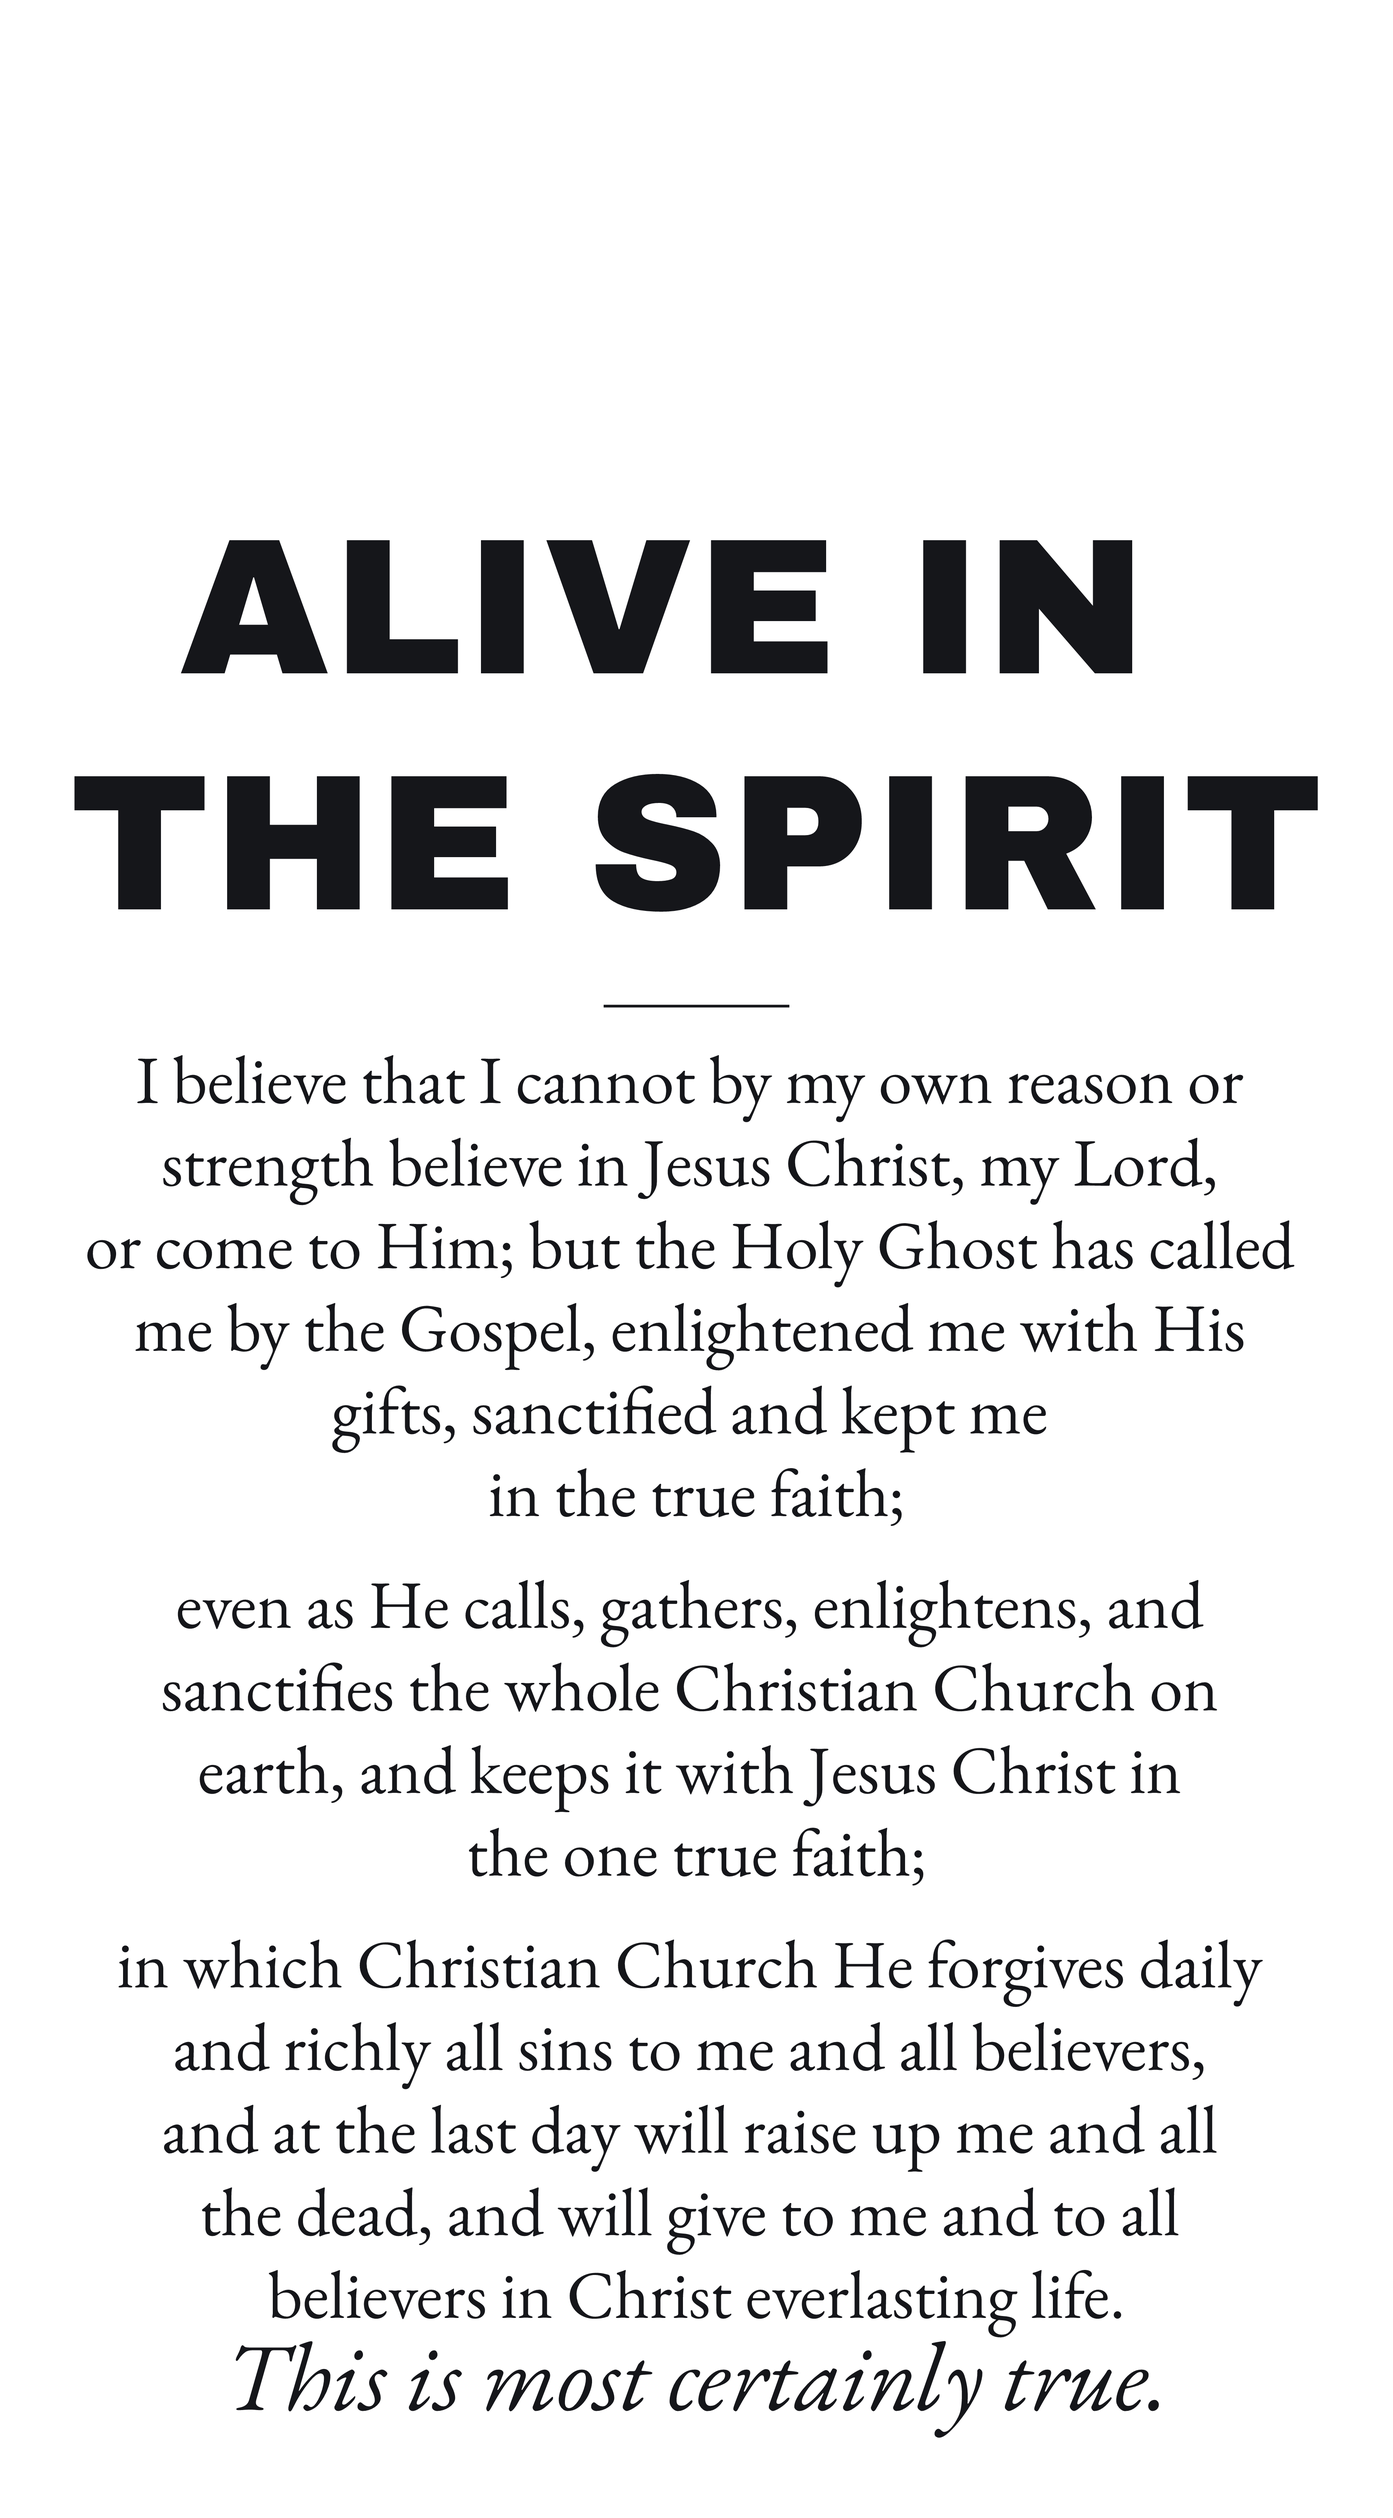
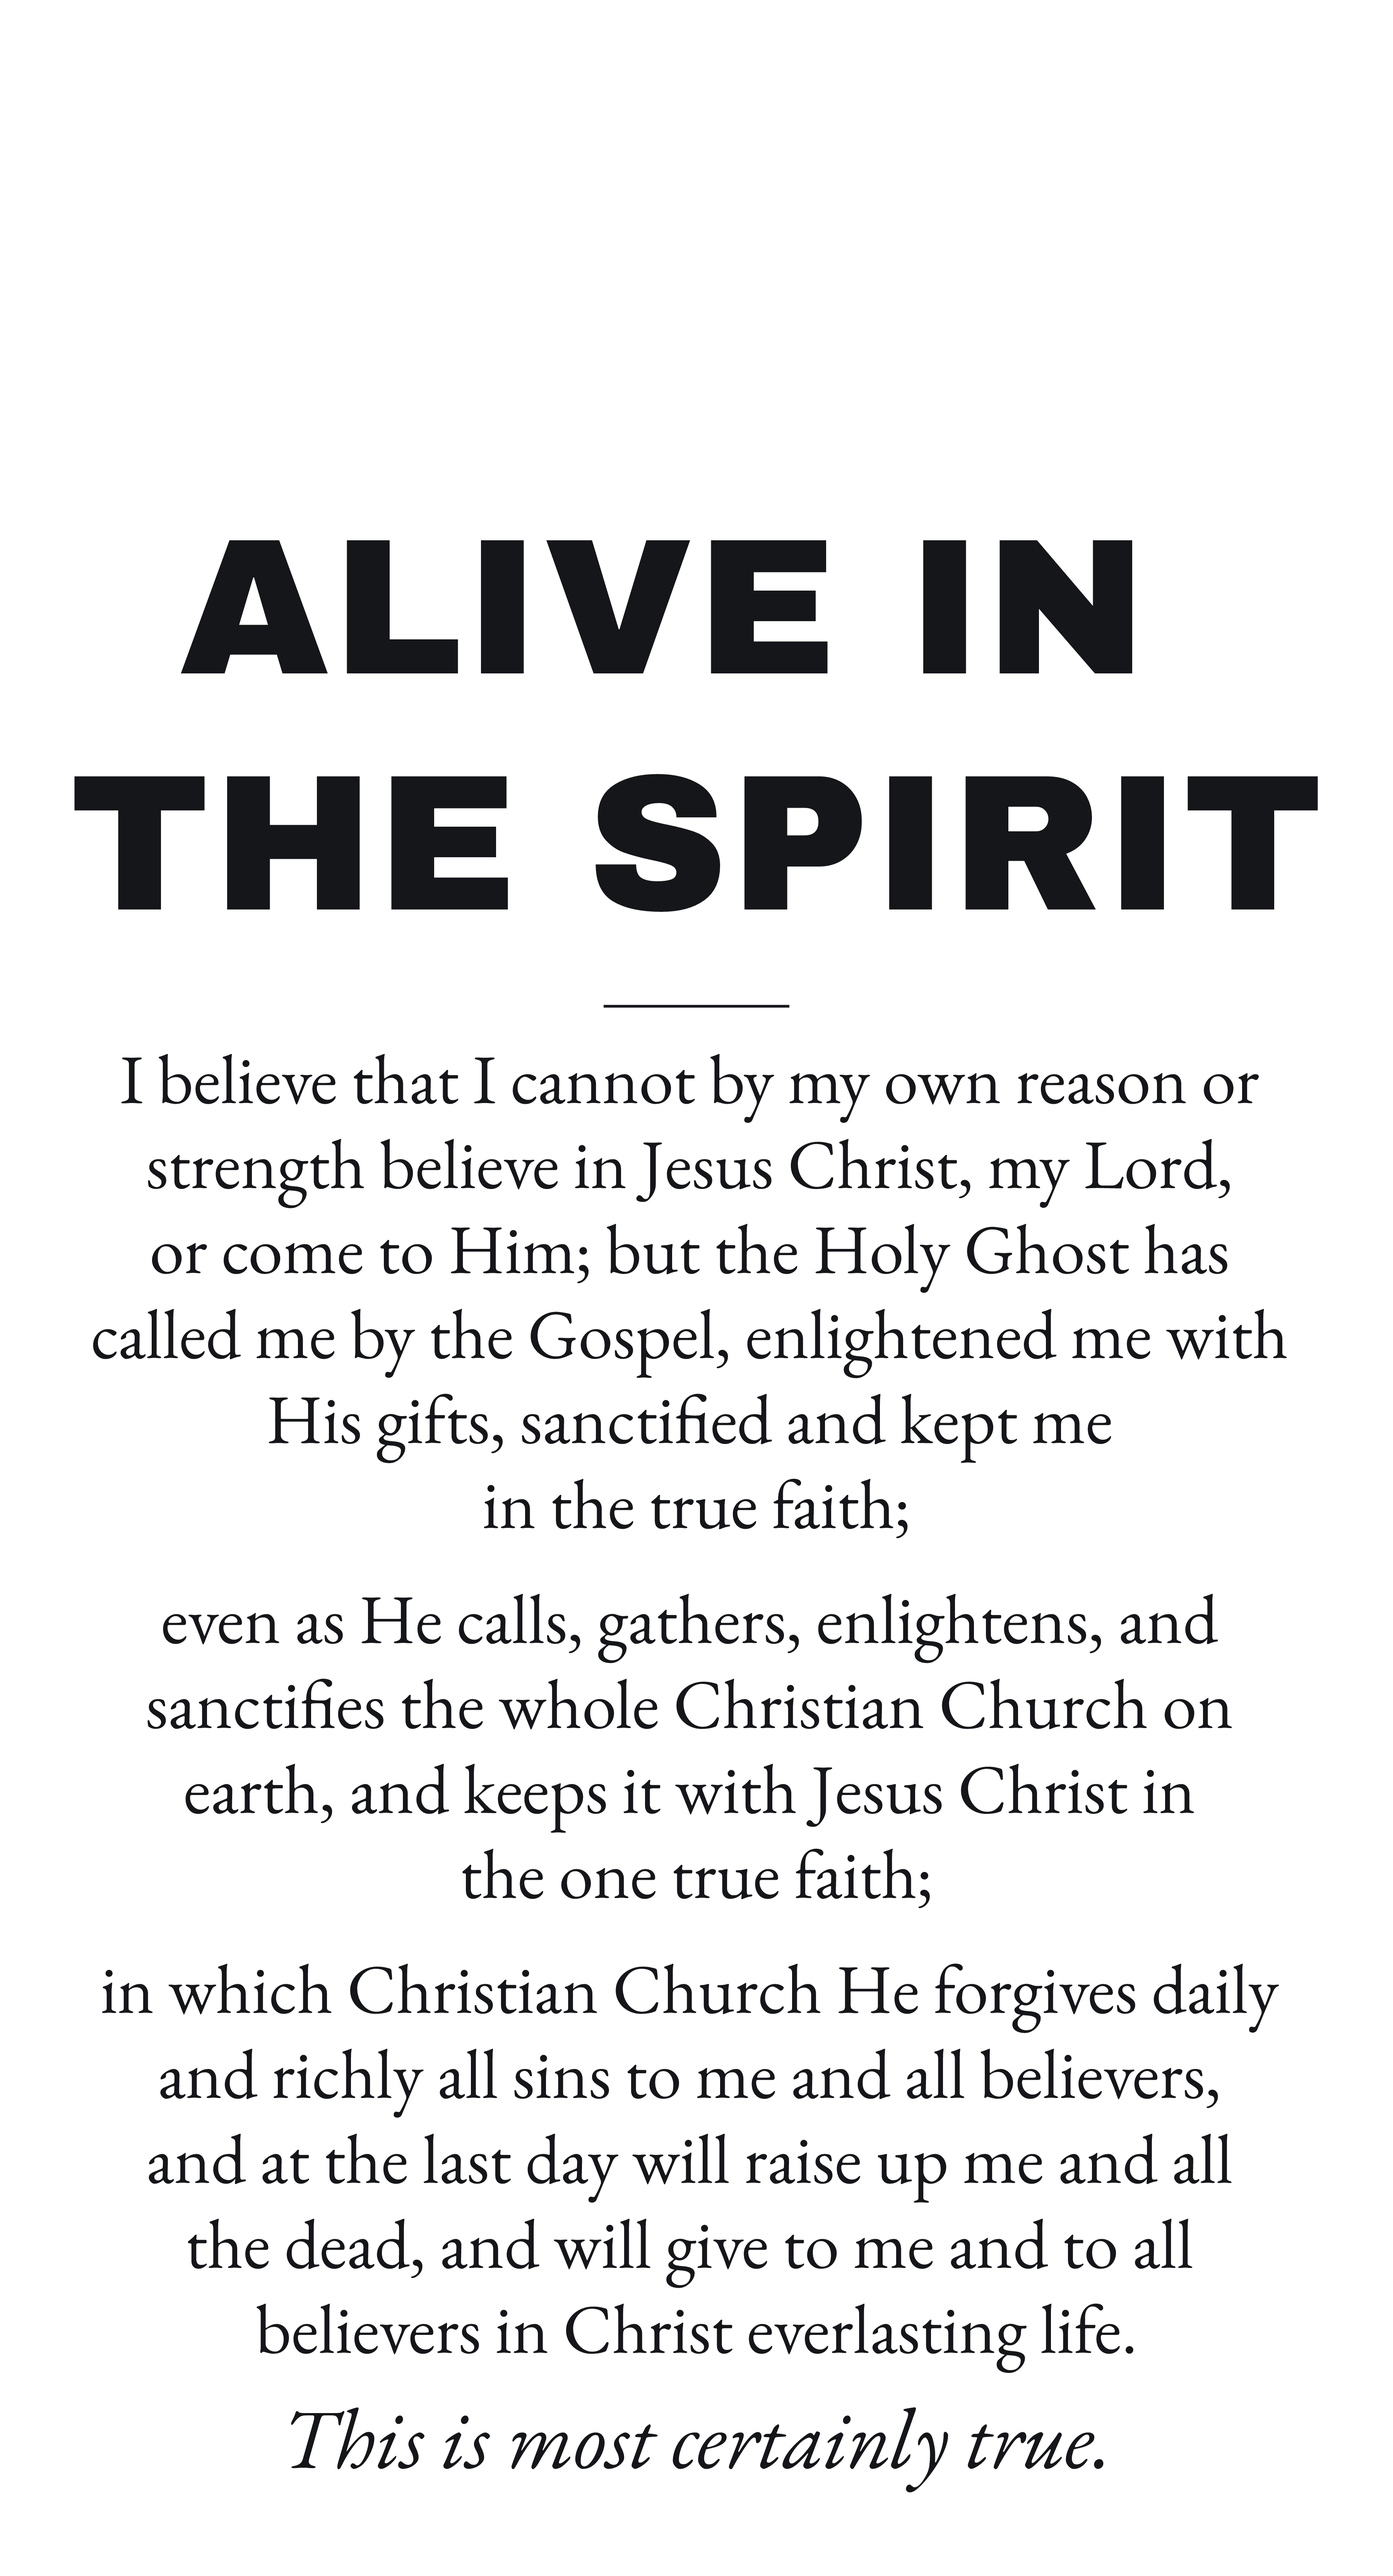
Optimize for max actual print size: pad_x=20, drop Gal 5:17
The interaction between SVG font size and POD scaling: Printful caps
prints at ~16" tall, so a taller canvas gets scaled down more. Bigger
SVG fonts that add wrap lines grow the canvas linearly, and the
cancelling scale-down means actual print font barely changes.

Optimizations applied:

1. pad_x 60 → 20 (basically zero side margin) — gives +80 px of usable
   line width, which lets verse_font / body_font bump up *without*
   adding wrap lines.

2. verse_font 195 → 200, body_font 175 → 180, cite_font 78 → 80 — the
   largest values where John 6:44 stays at 3 lines on the front and
   the catechism's longest paragraph stays at 5 lines on the back.

3. Dropped Galatians 5:17 from the front. With margins and font
   already maxed, the only remaining lever for actual print size was
   reducing content. Cutting Gal saves ~3 lines × 1.22 line-height +
   inter-verse gap = 2.9" of canvas height, which translates directly
   to a ~13% larger print at Printful's 16" cap.

Reverted the closing-font experiment (320/250) back to 240/220 with
buffer multiplier 1.35 — user didn't like the bigger closings.

Net: actual print on a 16" shirt is now ~35pt verses (was ~31pt),
~87pt header (was ~77pt), header ~1.22" tall.

diff --git a/build.py b/build.py
@@ -202,17 +202,20 @@ BOTTOM_MARGIN = 280  # whitespace below the last element in a side
 
 def render_front_layout(meta, blocks, palette, with_bg=True):
     """Render the front design. Returns (parts, canvas_height)."""
-    pad_x = 60  # narrower side margins → wider lines so bigger text doesn't add lines
+    pad_x = 20  # use almost the full canvas width; ~0.07" margin each side at 300dpi
     cx = CANVAS_W // 2
     max_w = CANVAS_W - 2 * pad_x
 
     front_heading = meta.get("front_heading", "")
 
     # font sizes are in px (= svg user units); divide by ~4.17 for points.
-    # 500 ≈ 120pt, 195 ≈ 47pt, 320 ≈ 77pt.
-    verse_font = 195
-    cite_font = 78
-    closing_font = 320
+    # 500 ≈ 120pt, 200 ≈ 48pt, 240 ≈ 58pt.
+    # 200 is the largest verse_font where John 6:44 still fits in 3 lines at
+    # pad_x=20 (max_w=3560). Going larger adds a line and the resulting taller
+    # canvas gets scaled down at Printful's 16" cap — net effect zero.
+    verse_font = 200
+    cite_font = 80
+    closing_font = 240
 
     content: list[str] = []
     # Optional transparent padding at the top of the canvas — pushes the whole
@@ -263,7 +266,7 @@ def render_front_layout(meta, blocks, palette, with_bg=True):
 
     if closing:
         para = " ".join(closing["paragraphs"])
-        y = last_y + closing_font * 0.95  # snug gap so "Therefore..." stays near verses
+        y = last_y + closing_font * 1.35  # snug gap so "Therefore..." stays near verses
         lines = wrap_text(para, max_w, closing_font, SERIF_CW)
         svg, end_y = text_block(cx, y, lines, closing_font, palette["body"], style="italic")
         content.append(svg)
@@ -279,13 +282,13 @@ def render_front_layout(meta, blocks, palette, with_bg=True):
 
 def render_back_layout(meta, blocks, palette, with_bg=True):
     """Render the back design. Returns (parts, canvas_height)."""
-    pad_x = 60  # narrower side margins → wider lines so bigger text doesn't add lines
+    pad_x = 20  # use almost the full canvas width; ~0.07" margin each side at 300dpi
     cx = CANVAS_W // 2
     max_w = CANVAS_W - 2 * pad_x
 
     heading = meta.get("back_heading") or meta.get("title", "")
     sub = meta.get("back_subheading", "")
-    body_font = 175
+    body_font = 180  # 178-180 is the cliff; above that Para 3 wraps to a 6th line
 
     content: list[str] = []
     y = TITLE_Y + int(meta.get("back_top_padding", 0))
@@ -324,9 +327,9 @@ def render_back_layout(meta, blocks, palette, with_bg=True):
             y = end_y + body_font * 1.65  # extra paragraph separation
 
     if closing:
-        closing_font = 250  # max that keeps "This is most certainly true." on one line
+        closing_font = 220
         para = " ".join(closing["paragraphs"])
-        y = last_y + closing_font * 0.95
+        y = last_y + closing_font * 1.35
         lines = wrap_text(para, max_w, closing_font, SERIF_CW)
         svg, end_y = text_block(cx, y, lines, closing_font, palette["body"], style="italic")
         content.append(svg)

diff --git a/shirts/third-article.md b/shirts/third-article.md
@@ -24,9 +24,6 @@ For by grace are ye saved through faith; and that not of yourselves: it is the g
 ### Romans 8:7-8
 Because the carnal mind is enmity against God: for it is not subject to the law of God, neither indeed can be. So then they that are in the flesh cannot please God.
 
-### Galatians 5:17
-For the flesh lusteth against the Spirit, and the Spirit against the flesh…
-
 ### 1 Corinthians 12:3
 …no man can say that Jesus is the Lord, but by the Holy Ghost.
 
